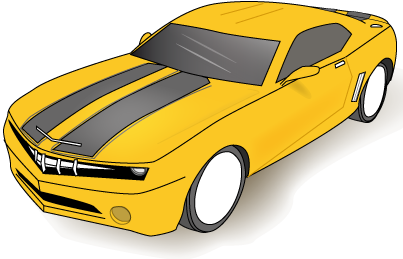
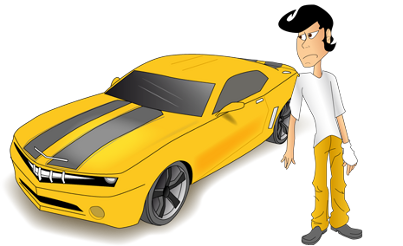
Añadiendo los nuevos personajes el menú

diff --git a/engine/charactermenu.py b/engine/charactermenu.py
@@ -161,17 +161,29 @@ class GroupOption:
         if self.actual_left:
             #Mostramos fondo e imagen
             screen.blit(self.normal_image, (self.option1_x, self.y))
-            screen.blit(self.actual_left['image'], (self.option1_x, self.image_y))
+            rect = self.actual_left['image'].get_rect()
+            rect.centerx = self.option1_x + self.normal_image.get_width() / 2
+            rect.y = self.image_y
+            #screen.blit(self.actual_left['image'], (self.option1_x, self.image_y))
+            screen.blit(self.actual_left['image'], rect)
         
         #Mostramos la opcion actual en el centro
         screen.blit(self.selected_image, (self.option2_x, self.y))
-        screen.blit(self.actual_option['image'], (self.option2_x, self.image_y))
+        rect = self.actual_option['image'].get_rect()
+        rect.centerx = self.option2_x + self.selected_image.get_width() / 2
+        rect.y = self.image_y
+        #screen.blit(self.actual_option['image'], (self.option2_x, self.image_y))
+        screen.blit(self.actual_option['image'], rect)
         
         #Si hay alguna opción a la derecha
         if self.actual_right:
             #Mostramos fondo e imagen
             screen.blit(self.normal_image, (self.option3_x, self.y))
-            screen.blit(self.actual_right['image'], (self.option3_x, self.image_y))
+            rect = self.actual_right['image'].get_rect()
+            rect.centerx = self.option3_x + self.normal_image.get_width() / 2
+            rect.y = self.image_y
+            #screen.blit(self.actual_right['image'], (self.option3_x, self.image_y))
+            screen.blit(self.actual_right['image'], rect)
         
     def actual_selected(self):
         '''
